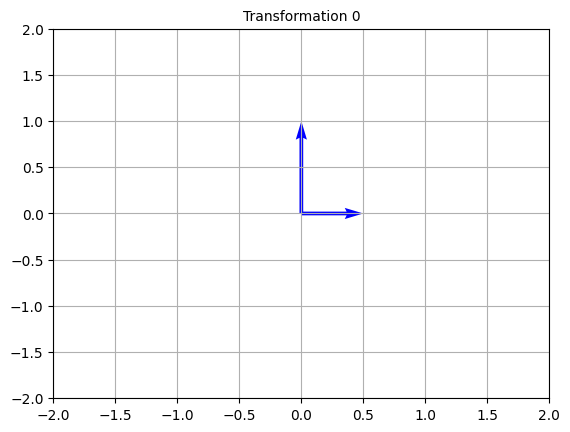
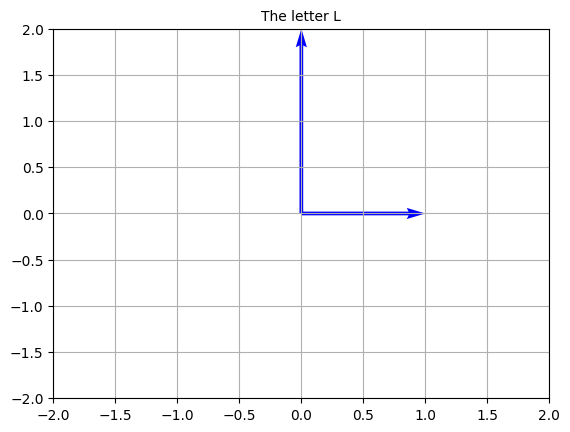
Updating ch2sec2.py and figure 0

Changed region(s): [[0.4175, 0.0301, 0.6263, 0.331], [0.5965, 0.4815, 0.7456, 0.5116]]

diff --git a/ch2sec2.py b/ch2sec2.py
@@ -2,15 +2,15 @@ from matplotlib import pyplot as plt
 import numpy as np
 import math
 
-def plotL(u, v, dimx, dimy, title, filename):
+def plotL(u, v, xmin, xmax, ymin, ymax, title, filename):
     origin = np.array([[0, 0], [0, 0]])
     V = np.array([u, v])
 
     fig, ax = plt.subplots()
     ax.quiver(*origin, V[:,0], V[:,1], color=['blue'], angles='xy', scale_units='xy', scale=1)
 
-    plt.xlim(-1*dimx, dimx)
-    plt.ylim(-1*dimy, dimy)
+    plt.xlim(xmin, xmax)
+    plt.ylim(ymin, ymax)
     plt.grid()
     
     plt.title(title,fontsize=10)
@@ -20,6 +20,7 @@ def plotL(u, v, dimx, dimy, title, filename):
 def main():
     U = np.array([0, 2])
     V = np.array([1, 0])
+    plotL(U, V, -2, 2, -2, 2, "The letter L", "ch2sec2fig0.png")
     angle = math.pi/4
     angle2 = math.pi/2
     angle3 = -1 * math.pi / 2
@@ -34,7 +35,7 @@ def main():
     ]
     for i in range(len(transforms)):
         transform = transforms[i]
-        plotL(np.matmul(transform, U), np.matmul(transform, V), 2, 2, "Transformation %d" %(i+1), "ch2sec2fig%d.png" %(i+1))
+        plotL(np.matmul(transform, U), np.matmul(transform, V), -2, 2, -2, 2, "Transformation %d" %(i+1), "ch2sec2fig%d.png" %(i+1))
 
 if __name__ == '__main__':
     main()
